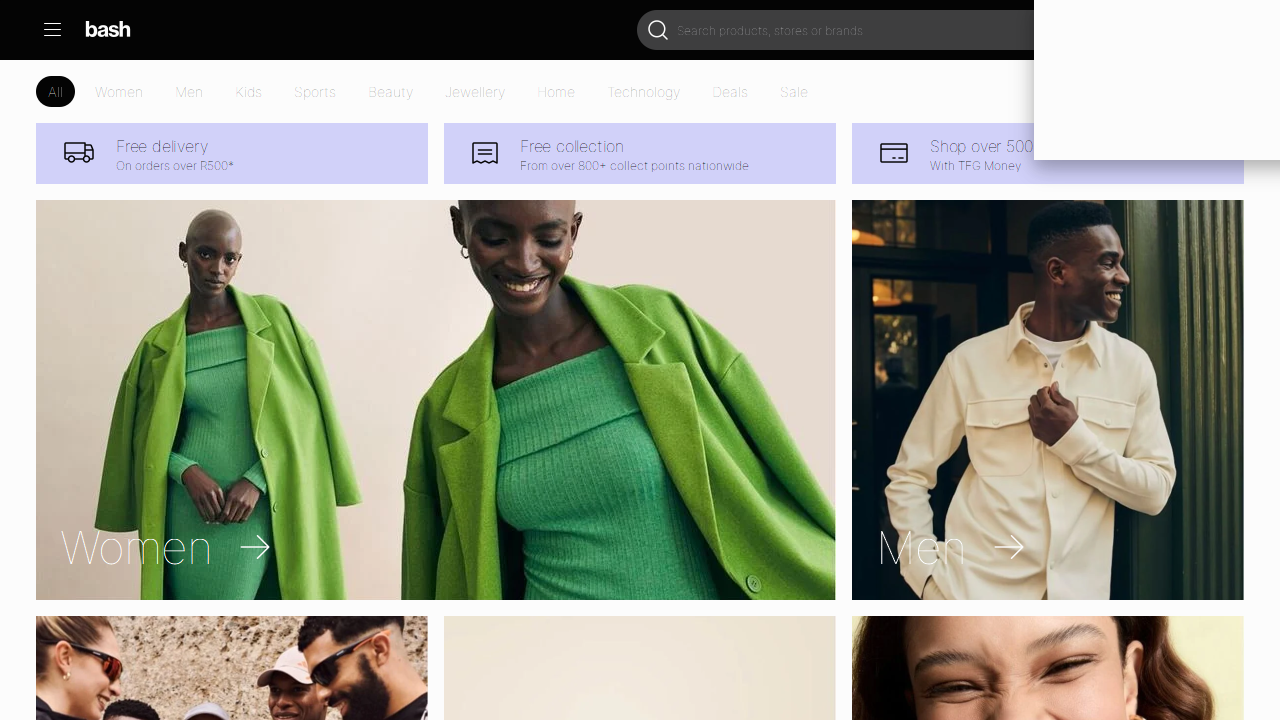
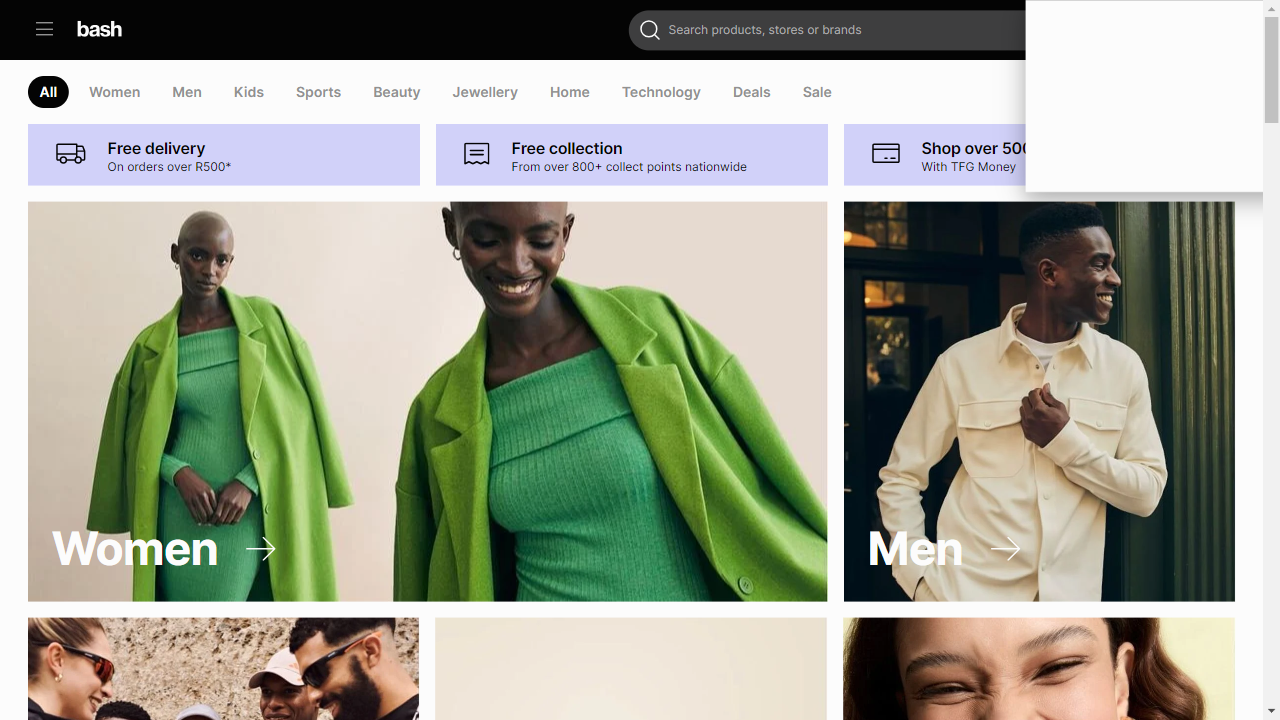
Add address

diff --git a/test/test_Product_Details.py b/test/test_Product_Details.py
@@ -1,0 +1,32 @@
+from playwright.sync_api import expect, Page
+from lib.credentials import Credentials
+from lib.url_s import URL_s
+from objectRepository.productDetailsObjects import Product_Details
+
+"""
+        To test login functionality
+        Run command: pytest test/test_Check_Out.py
+"""
+
+def test_check_out(login):
+        # Constructors
+        page = login
+        url = URL_s
+        prooduct_details = Product_Details
+
+        # Getting homepage after login API status code
+        page.request.get(url.Base_url)
+
+        # printing hommepage after login API status code
+        print(page.request.get(url.Base_url))
+
+        # Selecting category
+        page.get_by_role("link", name="Men", exact=True).first.click()
+        # Selecting desired item
+        page.get_by_role("link", name=Credentials.Product_3).click()
+        # Adding item to cart
+        expect(page.locator(prooduct_details.Bash_product_UUID)).to_have_text(Credentials.bash_product_UUID)
+        expect(page.locator(prooduct_details.Product_code)).to_have_text(Credentials.Product_code)
+
+        # Add to cart screenshot
+        page.screenshot(path="Screenshots/product_details/product details.png")

diff --git a/test/test_Address_details.py b/test/test_Address_details.py
@@ -1,0 +1,32 @@
+from playwright.sync_api import expect
+from lib.credentials import Credentials
+from objectRepository.addressDetailObjects import Address_details
+from lib.url_s import URL_s
+
+"""
+        To test login functionality
+        Run command: pytest test/test_Address_details.py
+"""
+
+def test_login_with_valid_credentials(login):
+        # Constructors
+        page = login
+        url = URL_s
+        address = Address_details
+        
+        # Verifying wether user successfully logged in or not 
+        expect(page.locator(address.account_button_after_login)).to_have_text("Hello, Skyreaper")
+
+        # Steps to navigate to user account page
+        page.locator(address.account_button_after_login).click()
+        page.locator(address.Addresses_Button).click()
+        expect(page.locator(address.account_header)).to_have_text("Skyreaper!")
+
+        # Account page screenshot
+        page.screenshot(path="Screenshots/Address_Details/account page.png")
+
+        page.locator(address.Add_Address_Button).click()
+
+
+
+

diff --git a/test/objectRepository/addressDetailObjects.py b/test/objectRepository/addressDetailObjects.py
@@ -1,0 +1,12 @@
+class Address_details:
+    Addresses_Button = '[class="vtex-login-2-x-addresses vtex-login-2-x-addresses--tfg-header-desktop-login db no-underline t-small c-muted-1 hover-c-action-primary pv3"]'
+    Add_Address_Button = 'xpath=//div[2]/div/div[1]/div/div[2]/div/div[1]/div/div/div/div[4]/div/div[2]/div[2]/div[2]/a'
+    # Account icon in homepage after login
+    # class code for before and after login are different
+    account_button_after_login = '[class="vtex-login-2-x-profile truncate t-action--small order-1 pl4 tfg-label-class dn db-l"]'
+    # Profile details option under account icon in homepage
+    profile_details = '[class="vtex-login-2-x-profileDetails vtex-login-2-x-profileDetails--tfg-header-desktop-login db no-underline t-small c-muted-1 hover-c-action-primary pv3"]'
+    # Account header in account page (User name header)
+    account_header = '[class="vtex-my-account-1-x-userName f4 c-on-base fw3 nowrap"]'
+
+        

diff --git a/test/conftest.py b/test/conftest.py
@@ -14,7 +14,7 @@ def Home_page(playwright: Playwright):
     browser_Chrome = playwright.chromium.launch(headless=False)
     browser_Firefox = playwright.firefox.launch(headless=False)
     browser_Webkit = playwright.webkit.launch(headless=False)
-    browser = browser_Webkit
+    browser = browser_Chrome
     context = browser.new_context()
     page = context.new_page()
 
@@ -46,7 +46,7 @@ def login(playwright: Playwright):
     browser_Chrome = playwright.chromium.launch(headless=False)
     browser_Firefox = playwright.firefox.launch(headless=False)
     browser_Webkit = playwright.webkit.launch(headless=False)
-    browser = browser_Webkit
+    browser = browser_Chrome
     context = browser.new_context()
     page = context.new_page()
    

diff --git a/test/objectRepository/productDetailsObjects.py b/test/objectRepository/productDetailsObjects.py
@@ -1,0 +1,3 @@
+class Product_Details:
+    Bash_product_UUID = 'xpath=//*[@id="accordion-product-information"]/div/div/article/div[3]/div[1]/div[2]'
+    Product_code = 'xpath=//*[@id="accordion-product-information"]/div/div/article/div[3]/div[2]/div[2]'

diff --git a/test/lib/credentials.py b/test/lib/credentials.py
@@ -31,3 +31,6 @@ class Credentials:
         \
         \
         '
+    
+    bash_product_UUID = 'b2bdfbf9-3f3b-441e-bc93-acd80c3bd1ba'
+    Product_code = '01A722AAEB8'
